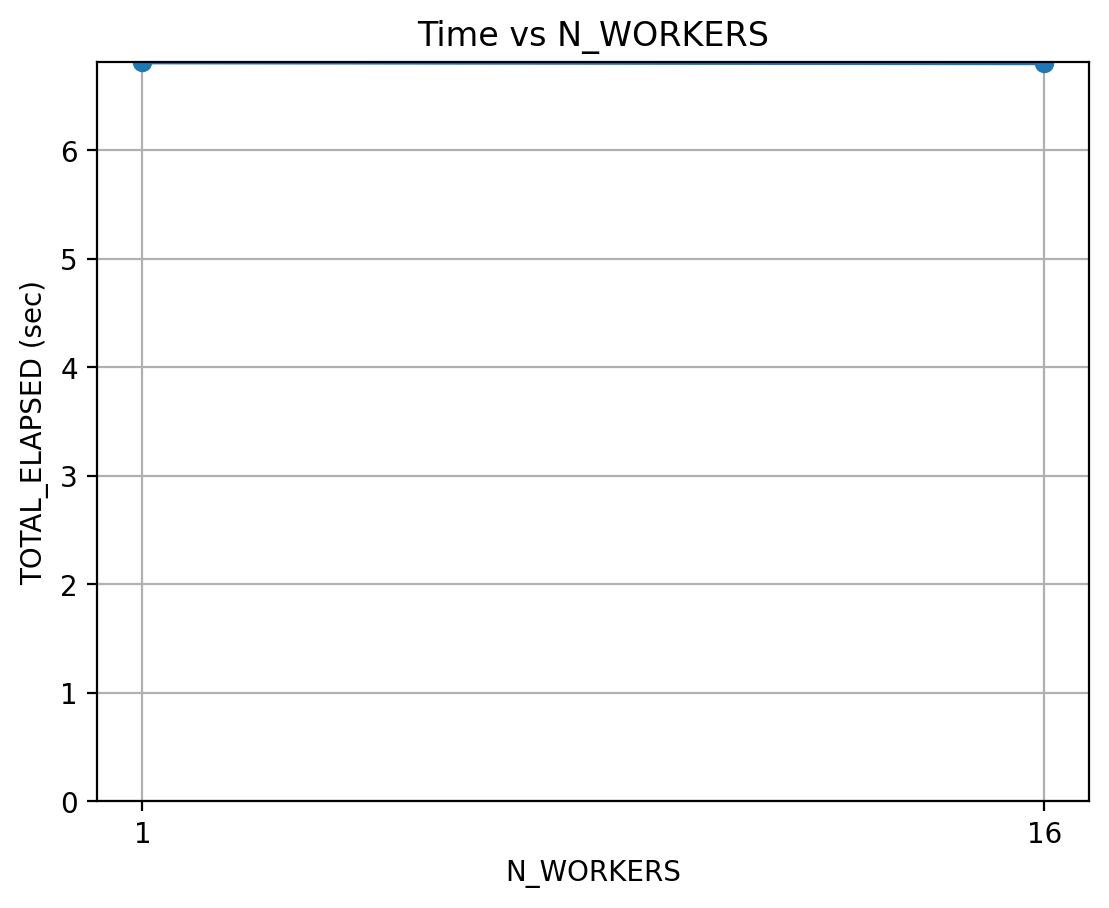
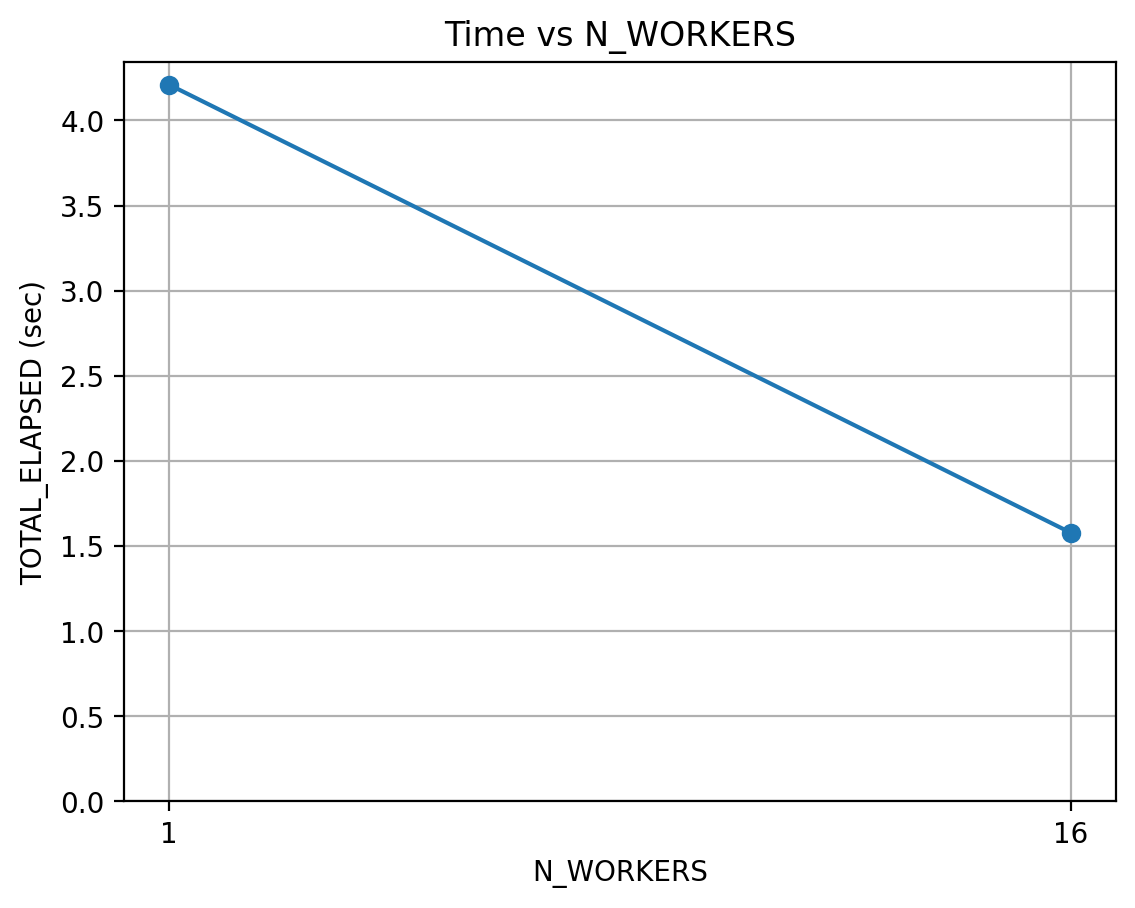
grgr

diff --git a/java/src/main/java/pso/Worker.java b/java/src/main/java/pso/Worker.java
@@ -234,6 +234,7 @@ public class Worker implements Runnable {
         }));
 
         streams.start();
+        t0 = System.nanoTime();
         if(KAFKA_METRICS_ENABLED) {
             startMetricsLogger(streams);
         } 
@@ -267,8 +268,8 @@ public class Worker implements Runnable {
         }
         streams.close();
 
-        // double seconds = (t1.get() - t0) / 1_000_000_000.0;    
-        double seconds = (t1.get() - t_actually_started.get()) / 1_000_000_000.0;    
+        double seconds = (t1.get() - t0) / 1_000_000_000.0;    
+        // double seconds = (t1.get() - t_actually_started.get()) / 1_000_000_000.0;    
         double starting_delay = (t_actually_started.get() - t0) / 1_000_000_000.0;    
         // System.out.printf("[Worker %d] t_actually_started: " + t_actually_started, workerId);
         // System.out.printf("[Worker %d] t0: " + t0, workerId);

diff --git a/java/src/main/java/pso/Coordinator.java b/java/src/main/java/pso/Coordinator.java
@@ -250,6 +250,7 @@ public class Coordinator implements Runnable {
 
         try {
             mainStreams.start();
+            t0 = System.nanoTime();
             if (gbestStreams != null) gbestStreams.start();
 
             System.out.println("[Coordinator] started. FULLY_INFORMED = " + FULLY_INFORMED);
